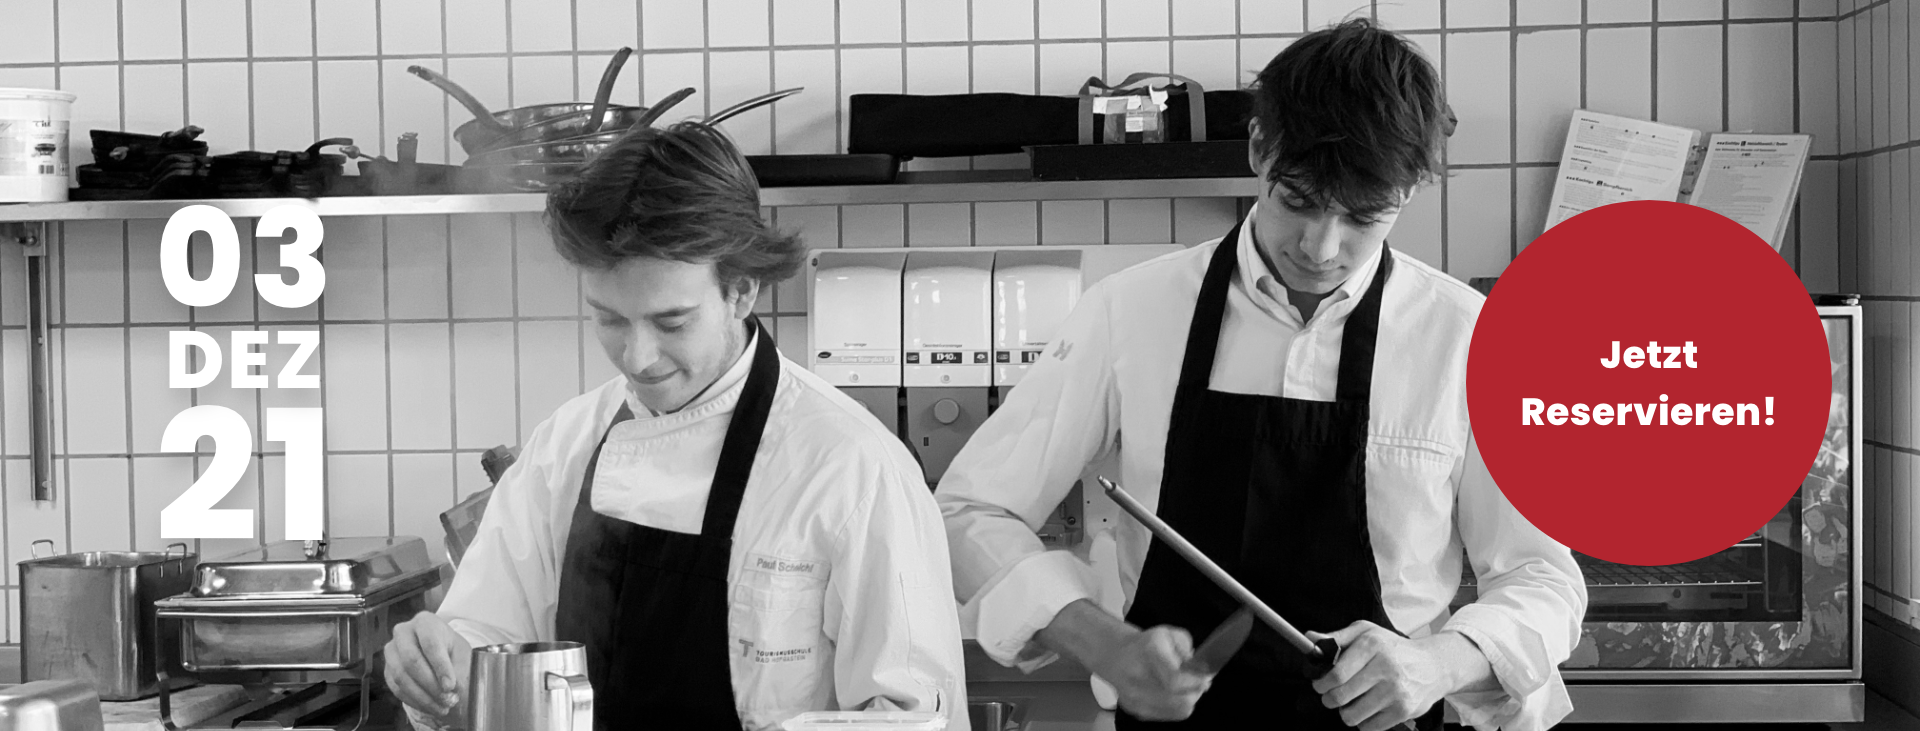
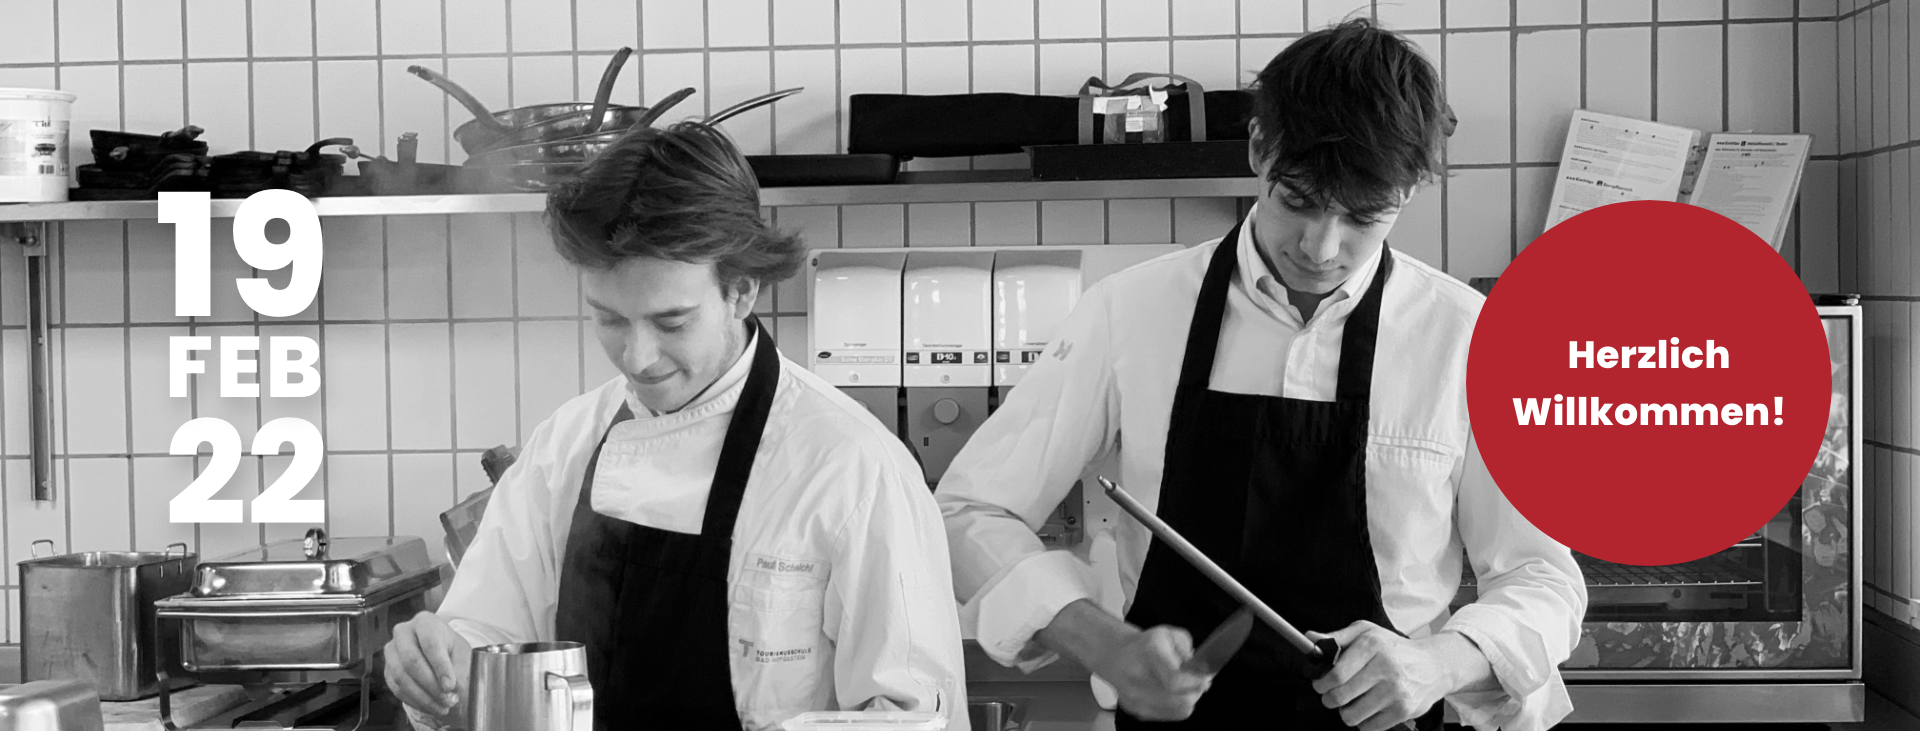
Nice
Neu

Changed region(s): [[0.0625, 0.2408, 0.1875, 0.7524], [0.7812, 0.5417, 0.9375, 0.6019], [0.8125, 0.4514, 0.9062, 0.5116]]

diff --git a/index Backup.html b/index Backup.html
@@ -97,7 +97,7 @@
         </div>
       </div>
     </nav>
-    <a href="#menue-ausw" id="landing-div">
+    <a href="#reservation" id="landing-div">
     <img src="landing.png" alt="" id="landing">
     </a>
     <main class="container-fluid">
@@ -106,12 +106,12 @@
     <div class="container-sm">
     <h1 class="head1" id="event">ALPINA CULINAE—EVENT</h1>
     <p>Herzlich Willkommen zur Alpina Culinae.<br>
-      Am <span>19. Feb. 2022, 17:30</span> wollen wir, Patrick Maurer und Paul Scheichl die kulinarische Vielfalt der Region Österreich näherbringen. Überzeugen Sie sich von der Qualität der heimischen Produkte und unserem gastronomischen Können.
+      Am <span>3.12.2021, 17:00</span> wollen wir, Patrick Maurer und Paul Scheichl die kulinarische Vielfalt der Region Österreich näherbringen. Überzeugen Sie sich von der Qualität der heimischen Produkte und unserem gastronomischen Können.
       Durch die grandiose Zusammenarbeit mit unseren Kleinbauern, Fischern, Käsern, Metzgern, Weinbauern, Almsennern, Bäckern und Obst- und Gemüsebauern ist das nicht all zu schwer.
-      Überzeugen Sie sich selbst und besuchen Sie uns im <span>Hotel—Restaurant »Lebzelter« in Altenmarkt</span>, wo wir unsere Version eines Alpinregionalen Menüs präsentieren. 
+      Überzeugen Sie sich selbst und besuchen Sie uns im <span>Lokal „Salzburger“ in Flachau</span>, wo wir unsere Version eines Alpinregionalen Menüs präsentieren. 
       Wir freuen uns, mit Ihnen gemeinsam einen entspannten Abend zu verbringen.
       </p>
-      
+      <p><span>Es gilt die 2G-Regel!</span></p>
     <!--<script src="https://cdn.jsdelivr.net/npm/bootstrap@5.0.2/dist/js/bootstrap.bundle.min.js" integrity="sha384-MrcW6ZMFYlzcLA8Nl+NtUVF0sA7MsXsP1UyJoMp4YLEuNSfAP+JcXn/tWtIaxVXM" crossorigin="anonymous"></script>-->
     </div>
 
@@ -120,29 +120,39 @@
     <h1 class="head1" id="ueberuns">ÜBER UNS</h1>
     <p>Wir, Patrick Maurer und Paul Scheichl, besuchen derzeit den 5. Jahrgang der Höheren Lehranstalt für Tourismus in Bad Hofgastein. Unsere praktischen Prüfungen haben wir 2020/2021 abgeschlossen gemeinsam mit dem Käsekennerdiplom, dem Jungbarkeeper und der Jungsommelier–Ausbildung. Unsere Praktika haben wir unter anderem im Stanglwirt sowie im Restaurant Mangold absolviert.  Besonderes Interesse haben wir für die regionalen Produkte, sowie deren Verwendung in den österreichischen Gourmetküchen. Unsere Freude an der Gastronomie möchten wir nach Abschluss der Ausbildung im Juni 2022 in renommierten Unternehmen ausleben.</p>   </div>
     
-    <!-- Page Contents MenÜ -->
-    <div class="container-sm">
-      <h1 class="head1" id="menue-ausw">DAS MENÜ</h1>
-      <p>RIND – BROT – EI <br>
-        *****<br>
-        BROCCOLI – SPECK<br>
-        *****<br>
-        RAVIOLI – RADICCIO<br>
-        *****<br>
-        ZITRONE – VODKA – KAVIER<br>
-        *****<br>
-        CHICKEN – SÜSSKARTOFFEL<br>
-        *****<br>
-        KAFFEE – MASCARPONE<br>
-        *****<br>
-        KÄSE<br>
-        </p>
+    <!-- Menue Auswahl-->
+    <div id="menue-ausw" class="carousel slide" data-bs-ride="carousel">
+      <div class="carousel-indicators">
+        <button type="button" data-bs-target="#menue-ausw" data-bs-slide-to="0" class="active" aria-current="true" aria-label="Slide 1"></button>
+        <button type="button" data-bs-target="#menue-ausw" data-bs-slide-to="1" aria-label="Slide 2"></button>
       </div>
-      
+      <div class="carousel-inner">
+        <div class="carousel-item active">
+          <img src="alpina culinaem1.png" class="d-block w-100" alt="...">
+          <div class="carousel-caption d-none d-md-block">
+            <h5>Menü 1</h5>
+          </div>
+        </div>
+        <div class="carousel-item">
+          <img src="alpina culinaem2.png" class="d-block w-100" alt="...">
+          <div class="carousel-caption d-none d-md-block">
+            <h5>Menü 2</h5>
+          </div>
+        </div>
+      </div>
+      <button class="carousel-control-prev" type="button" data-bs-target="#menue-ausw" data-bs-slide="prev">
+        <span class="carousel-control-prev-icon" aria-hidden="true"></span>
+        <span class="visually-hidden">Previous</span>
+      </button>
+      <button class="carousel-control-next" type="button" data-bs-target="#menue-ausw" data-bs-slide="next">
+        <span class="carousel-control-next-icon" aria-hidden="true"></span>
+        <span class="visually-hidden">Next</span>
+      </button>
+    </div>
 
     <!-- Form Area -->
     <div class="container-sm">
-    <h1 class="head1" id="reservation">REGISTRIERUNG</h1>
+    <h1 class="head1" id="reservation">RESERVIERUNG</h1>
     <form class="row g-3 needs-validation container-sm" id="form" novalidate>
       <div class="col-md-4">
         <label for="vn" class="form-label">Vorname</label>
@@ -168,7 +178,7 @@
         </div>
       </div>
 
-      <!-- 
+      
       <div class="col-md-12">
         <label for="menue" class="form-label">Menüauswahl</label>
         <select class="form-select" id="menue" required>
@@ -179,7 +189,7 @@
         <div class="invalid-feedback">
           Bitte ein Menü auswählen.
         </div>
-      </div>-->
+      </div>
       
      
       <div class="col-12">
